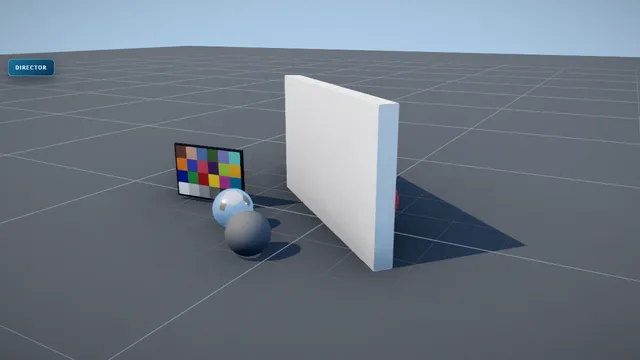
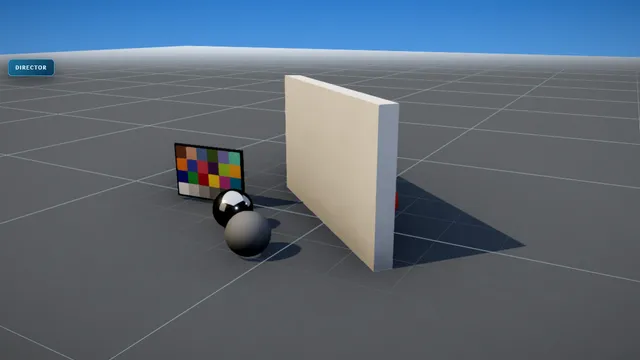
feat(labs): every lab starts under the demo scene's sky, haze and light
The lab stage defaulted to a dark backdrop with no environment, so a lab
copied from another looked nothing like the game. It now mounts the same
gradient sky and horizon haze as the demo scene (shared as KitSky), the same
three-lightformer IBL and the same rim light. A solid background colour or
null still opts out. The floor stays the neutral 18% grey reference.

Putting the sky into the IBL capture was tried and dropped: the demo's warm
clay turned pale blue. Previews of the four stage labs are re-captured.

Claude-Session: https://claude.ai/code/session_01Cqi79EDqrGa2yzfiQywDDH

diff --git a/src/shared/lib/director/DirectorLights.tsx b/src/shared/lib/director/DirectorLights.tsx
@@ -4,6 +4,7 @@ import type { RefObject } from 'react'
 import type { Object3D } from 'three'
 
 import { SunShadow } from '../SunShadow'
+import { KitSky } from './KitSky'
 import { DEFAULT_DIRECTOR_SETTINGS, KIT_SUN_DISTANCE, useDirectorSection } from './directorSettings'
 import { anglesFromOffset, offsetFromAngles, stopsToGain, withChroma, type Vector3Tuple } from './lightGeometry'
 
@@ -29,9 +30,9 @@ export type DirectorPalette = {
 type DirectorLightsProps = {
   readonly ambientScale?: number
   readonly environment?: boolean
-  readonly environmentBackdrop?: string
   readonly palette?: DirectorPalette
   readonly rim?: boolean
+  readonly sky?: boolean
   readonly sun: DirectorSunOverrides
 }
 
@@ -63,10 +64,9 @@ function useFillPosition(): Vector3Tuple {
   )
 }
 
-function KitEnvironment({ backdrop, intensity }: { readonly backdrop?: string; readonly intensity: number }) {
+function KitEnvironment({ intensity }: { readonly intensity: number }) {
   return (
     <Environment environmentIntensity={intensity} frames={1} resolution={128}>
-      {backdrop ? <color args={[backdrop]} attach="background" /> : null}
       <Lightformer color="#dfeaf6" form="rect" intensity={0.7} position={[0, 12, 0]} rotation-x={Math.PI / 2} scale={[24, 24, 1]} />
       <Lightformer color="#c3d4ea" form="rect" intensity={0.35} position={[-12, 5, -6]} scale={[10, 10, 1]} />
       <Lightformer color="#f0e6d6" form="rect" intensity={0.3} position={[12, 5, 6]} scale={[10, 10, 1]} />
@@ -74,21 +74,22 @@ function KitEnvironment({ backdrop, intensity }: { readonly backdrop?: string; r
   )
 }
 
-export function DirectorLights({ ambientScale = 1, environment = true, environmentBackdrop, palette, rim = false, sun }: DirectorLightsProps) {
+export function DirectorLights({ ambientScale = 1, environment = true, palette, rim = false, sky = false, sun }: DirectorLightsProps) {
   const ambient = useDirectorSection('ambient')
   const fillPosition = useFillPosition()
   const indirectGain = stopsToGain(ambient.indirectEV) * ambientScale
-  const sky = withChroma(palette?.sky ?? ambient.skyColor, ambient.indirectChroma)
-  const ground = withChroma(palette?.ground ?? ambient.groundColor, ambient.indirectChroma)
-  const fill = withChroma(palette?.fill ?? ambient.fillColor, ambient.indirectChroma)
+  const skyTint = withChroma(palette?.sky ?? ambient.skyColor, ambient.indirectChroma)
+  const groundTint = withChroma(palette?.ground ?? ambient.groundColor, ambient.indirectChroma)
+  const fillTint = withChroma(palette?.fill ?? ambient.fillColor, ambient.indirectChroma)
 
   return (
     <>
       <DirectorSun {...sun} />
-      <hemisphereLight color={sky} groundColor={ground} intensity={ambient.hemisphereIntensity * indirectGain} />
-      <directionalLight color={fill} intensity={ambient.fillIntensity * indirectGain} position={fillPosition} />
+      <hemisphereLight color={skyTint} groundColor={groundTint} intensity={ambient.hemisphereIntensity * indirectGain} />
+      <directionalLight color={fillTint} intensity={ambient.fillIntensity * indirectGain} position={fillPosition} />
       {rim ? <directionalLight color={RIM_COLOR} intensity={ambient.rimIntensity} position={RIM_POSITION} /> : null}
-      {environment ? <KitEnvironment backdrop={environmentBackdrop} intensity={ambient.environmentIntensity * indirectGain} /> : null}
+      {environment ? <KitEnvironment intensity={ambient.environmentIntensity * indirectGain} /> : null}
+      {sky ? <KitSky /> : null}
     </>
   )
 }

diff --git a/src/scenes/lab-stage/LabStage.tsx b/src/scenes/lab-stage/LabStage.tsx
@@ -24,7 +24,7 @@ import {
 import { Debug } from '../demo-scene/Debug'
 import { labStageGroundGeometry, labStageGroundMaterial } from './labStageMaterials'
 
-const NEUTRAL_COOL_BACKDROP = '#20262b'
+const KIT_SKY = 'kit-sky'
 const LARGEST_SHADOW_RADIUS = 60
 
 export type LabStageSun = {
@@ -48,7 +48,7 @@ export type LabStageProps = {
   readonly bounceColor?: string
   readonly fillColor?: string
   readonly skyColor?: string
-  readonly background?: string | null
+  readonly background?: typeof KIT_SKY | (string & {}) | null
   readonly camera?: {
     readonly far?: number
     readonly fov?: number
@@ -135,12 +135,12 @@ function LabPost({ effects, post, richPost }: { readonly effects?: ReactElement;
 
 export function LabStage({
   ambient = 1,
-  background = NEUTRAL_COOL_BACKDROP,
+  background = KIT_SKY,
   bounceColor,
   camera,
   children,
   effects,
-  environment = false,
+  environment = true,
   fillColor,
   grid = true,
   ground = true,
@@ -175,14 +175,15 @@ export function LabStage({
       >
         <LabSceneSeam />
         <DirectorCamera />
-        {background !== null && <color args={[background]} attach="background" />}
+        {background !== null && background !== KIT_SKY ? <color args={[background]} attach="background" /> : null}
         <ShadowCompositor every={graphics.shadowThrottle} />
 
         <DirectorLights
           ambientScale={ambient}
           environment={environment}
-          environmentBackdrop={background ?? undefined}
           palette={{ fill: fillColor, ground: bounceColor, sky: skyColor }}
+          rim
+          sky={background === KIT_SKY}
           sun={{ color: sun?.color, intensity: sun?.intensity, offset: sun?.offset, radius: sunRadius }}
         />
         {vfxLights ? <VfxLightPool /> : null}

diff --git a/src/scenes/demo-scene/StarterScene.tsx b/src/scenes/demo-scene/StarterScene.tsx
@@ -1,7 +1,4 @@
 import { OrbitControls } from '@react-three/drei'
-import { useThree } from '@react-three/fiber'
-import { useEffect, useMemo } from 'react'
-import * as THREE from 'three'
 
 import { ShadowGroup } from '../../shared/lib/ShadowGroup'
 import { DirectorLights } from '../../shared/lib/director/DirectorLights'
@@ -18,40 +15,6 @@ const CANAL_POS: [number, number] = [0.4, 4]
 const CANAL_WATER_LEVEL = 0.28
 
 const SUN_SHADOW_RADIUS = 20
-
-const HORIZON_HAZE_COLOR = '#cfe0f4'
-
-function GradientSky() {
-  const scene = useThree((state) => state.scene)
-
-  const texture = useMemo(() => {
-    const canvas = document.createElement('canvas')
-    canvas.width = 2
-    canvas.height = 256
-    const ctx = canvas.getContext('2d')!
-    const grad = ctx.createLinearGradient(0, 0, 0, 256)
-    grad.addColorStop(0, '#3d78c9')
-    grad.addColorStop(0.5, '#7aa9e6')
-    grad.addColorStop(1, HORIZON_HAZE_COLOR)
-    ctx.fillStyle = grad
-    ctx.fillRect(0, 0, 2, 256)
-
-    const tex = new THREE.CanvasTexture(canvas)
-    tex.colorSpace = THREE.SRGBColorSpace
-    return tex
-  }, [])
-
-  useEffect(() => {
-    const previous = scene.background
-    scene.background = texture
-    return () => {
-      scene.background = previous
-      texture.dispose()
-    }
-  }, [scene, texture])
-
-  return null
-}
 
 type StarterSceneProps = {
   readonly isDancing?: boolean
@@ -70,10 +33,7 @@ export function StarterScene({
 }: StarterSceneProps) {
   return (
     <>
-      <GradientSky />
-      <fog attach="fog" args={[HORIZON_HAZE_COLOR, 34, 94]} />
-
-      <DirectorLights environment rim sun={{ radius: SUN_SHADOW_RADIUS }} />
+      <DirectorLights environment rim sky sun={{ radius: SUN_SHADOW_RADIUS }} />
 
       <ShadowGroup kind="static">
         <mesh

diff --git a/src/shared/lib/director/KitSky.tsx b/src/shared/lib/director/KitSky.tsx
@@ -1,0 +1,48 @@
+import { useThree } from '@react-three/fiber'
+import { useEffect } from 'react'
+import { CanvasTexture, SRGBColorSpace } from 'three'
+
+const KIT_HORIZON_COLOR = '#cfe0f4'
+const KIT_ZENITH_COLOR = '#3d78c9'
+const KIT_MID_SKY_COLOR = '#7aa9e6'
+const HAZE_NEAR_METRES = 34
+const HAZE_FAR_METRES = 94
+
+function createSkyTexture(): CanvasTexture {
+  const canvas = document.createElement('canvas')
+  canvas.width = 2
+  canvas.height = 256
+  const context = canvas.getContext('2d')!
+  const gradient = context.createLinearGradient(0, 0, 0, 256)
+  gradient.addColorStop(0, KIT_ZENITH_COLOR)
+  gradient.addColorStop(0.5, KIT_MID_SKY_COLOR)
+  gradient.addColorStop(1, KIT_HORIZON_COLOR)
+  context.fillStyle = gradient
+  context.fillRect(0, 0, 2, 256)
+  const texture = new CanvasTexture(canvas)
+  texture.colorSpace = SRGBColorSpace
+  return texture
+}
+
+let skyTexture: CanvasTexture | null = null
+
+function kitSkyTexture(): CanvasTexture {
+  skyTexture ??= createSkyTexture()
+  return skyTexture
+}
+
+export function KitSky() {
+  const scene = useThree((state) => state.scene)
+
+  /* eslint-disable react-hooks/immutability -- the scene background is renderer state owned by three, not React state */
+  useEffect(() => {
+    const previous = scene.background
+    scene.background = kitSkyTexture()
+    return () => {
+      scene.background = previous
+    }
+  }, [scene])
+  /* eslint-enable react-hooks/immutability */
+
+  return <fog args={[KIT_HORIZON_COLOR, HAZE_NEAR_METRES, HAZE_FAR_METRES]} attach="fog" />
+}

diff --git a/src/features/director-look/ui/DirectorLookLabScreen.tsx b/src/features/director-look/ui/DirectorLookLabScreen.tsx
@@ -13,7 +13,6 @@ const SUN_YAW = (DEFAULT_DIRECTOR_SETTINGS.sun.azimuthDeg * Math.PI) / 180
 const TOWARD_SUN = { x: Math.sin(SUN_YAW), z: Math.cos(SUN_YAW) }
 const ALONG_WALL = { x: TOWARD_SUN.z, z: -TOWARD_SUN.x }
 
-const CLEAR_DAY_SKY = '#8fb6e4'
 const WALL_HEIGHT = 2.4
 const WALL_LENGTH = 4.4
 const WALL_THICKNESS = 0.3
@@ -75,9 +74,7 @@ export function DirectorLookLabScreen() {
 
   return (
     <LabStage
-      background={CLEAR_DAY_SKY}
       camera={{ far: 120, fov: 38, near: 0.1, position: placed(3.2, 8.4, 3.4) }}
-      environment
       orbit={{ maxDistance: 30, minDistance: 3, target: placed(0.2, 0.2, 0.8) }}
       post="rich"
       sun={{ radius: 9 }}

diff --git a/docs/rendering.md b/docs/rendering.md
@@ -44,6 +44,15 @@ They are a WebGL port of the director layer of
 - **One rig for every canvas.** `StarterScene` and `LabStage` carried hand-copied light values;
   they now both mount `DirectorLights`. A lab's own `ambient`, palette and `sun` props still
   win over the director values, so a lab that needs a darker key keeps it.
+- **Every lab starts in the demo scene's environment.** `LabStage` defaults to the kit sky
+  (the same gradient and horizon haze as the demo), the same three-lightformer IBL and the
+  same rim light. A new lab copied from any other lab is lit and framed like the game without
+  asking for it. A solid `background` colour or `null` opts out of the sky and haze.
+  The one deliberate difference is the floor: the stage keeps its neutral 18% grey, the
+  reference a material is tuned over, instead of the demo's tiled floor.
+- **The sky is not in the IBL.** Putting the sky dome into the environment capture was tried:
+  the demo's warm clay turned pale blue and every lit face washed out. The environment keeps
+  the three lightformers the demo has always had.
 - **The fill light follows the sun.** It sits at a fixed azimuth offset from the sun, taken from
   the lab stage's `[-16, 8, -18]`, the shadow side. The demo scene used to put it at
   `[16, 8, 18]`, on the lit side, while its own description called it a shadow-side fill.
@@ -97,9 +106,10 @@ Rationale that used to sit beside the code in `GameCanvas.tsx`, `StarterScene.ts
 - **The lab ambient palette is a colour, not only a strength.** Turning the ambient up to reach
   a soft overcast, where shaded stone is only a quarter darker than lit stone, also turns the
   blue of `#8bb4ef` up with it, and the subject arrives cold and grey.
-- **The lab environment is opt-in**, for metal: a `metalness = 1` surface has no diffuse term,
-  so without an environment it renders as a near-black silhouette whatever the key light does.
-  Its three lightformers mirror the game's arena, not a studio HDRI. `frames={1}` bakes it once.
+- **The lab environment matters most for metal**: a `metalness = 1` surface has no diffuse
+  term, so without an environment it renders as a near-black silhouette whatever the key light
+  does. Its three lightformers mirror the game's arena, not a studio HDRI. `frames={1}` bakes
+  it once. It used to be opt-in; it is on by default now that labs share the demo environment.
 - **The lab `effects` slot sits before bloom**, so bloom bleeds from the image a screen-space
   effect produced. It is typed as one element because each composer child must be an effect; a
   fragment or a string silently renders nothing.
